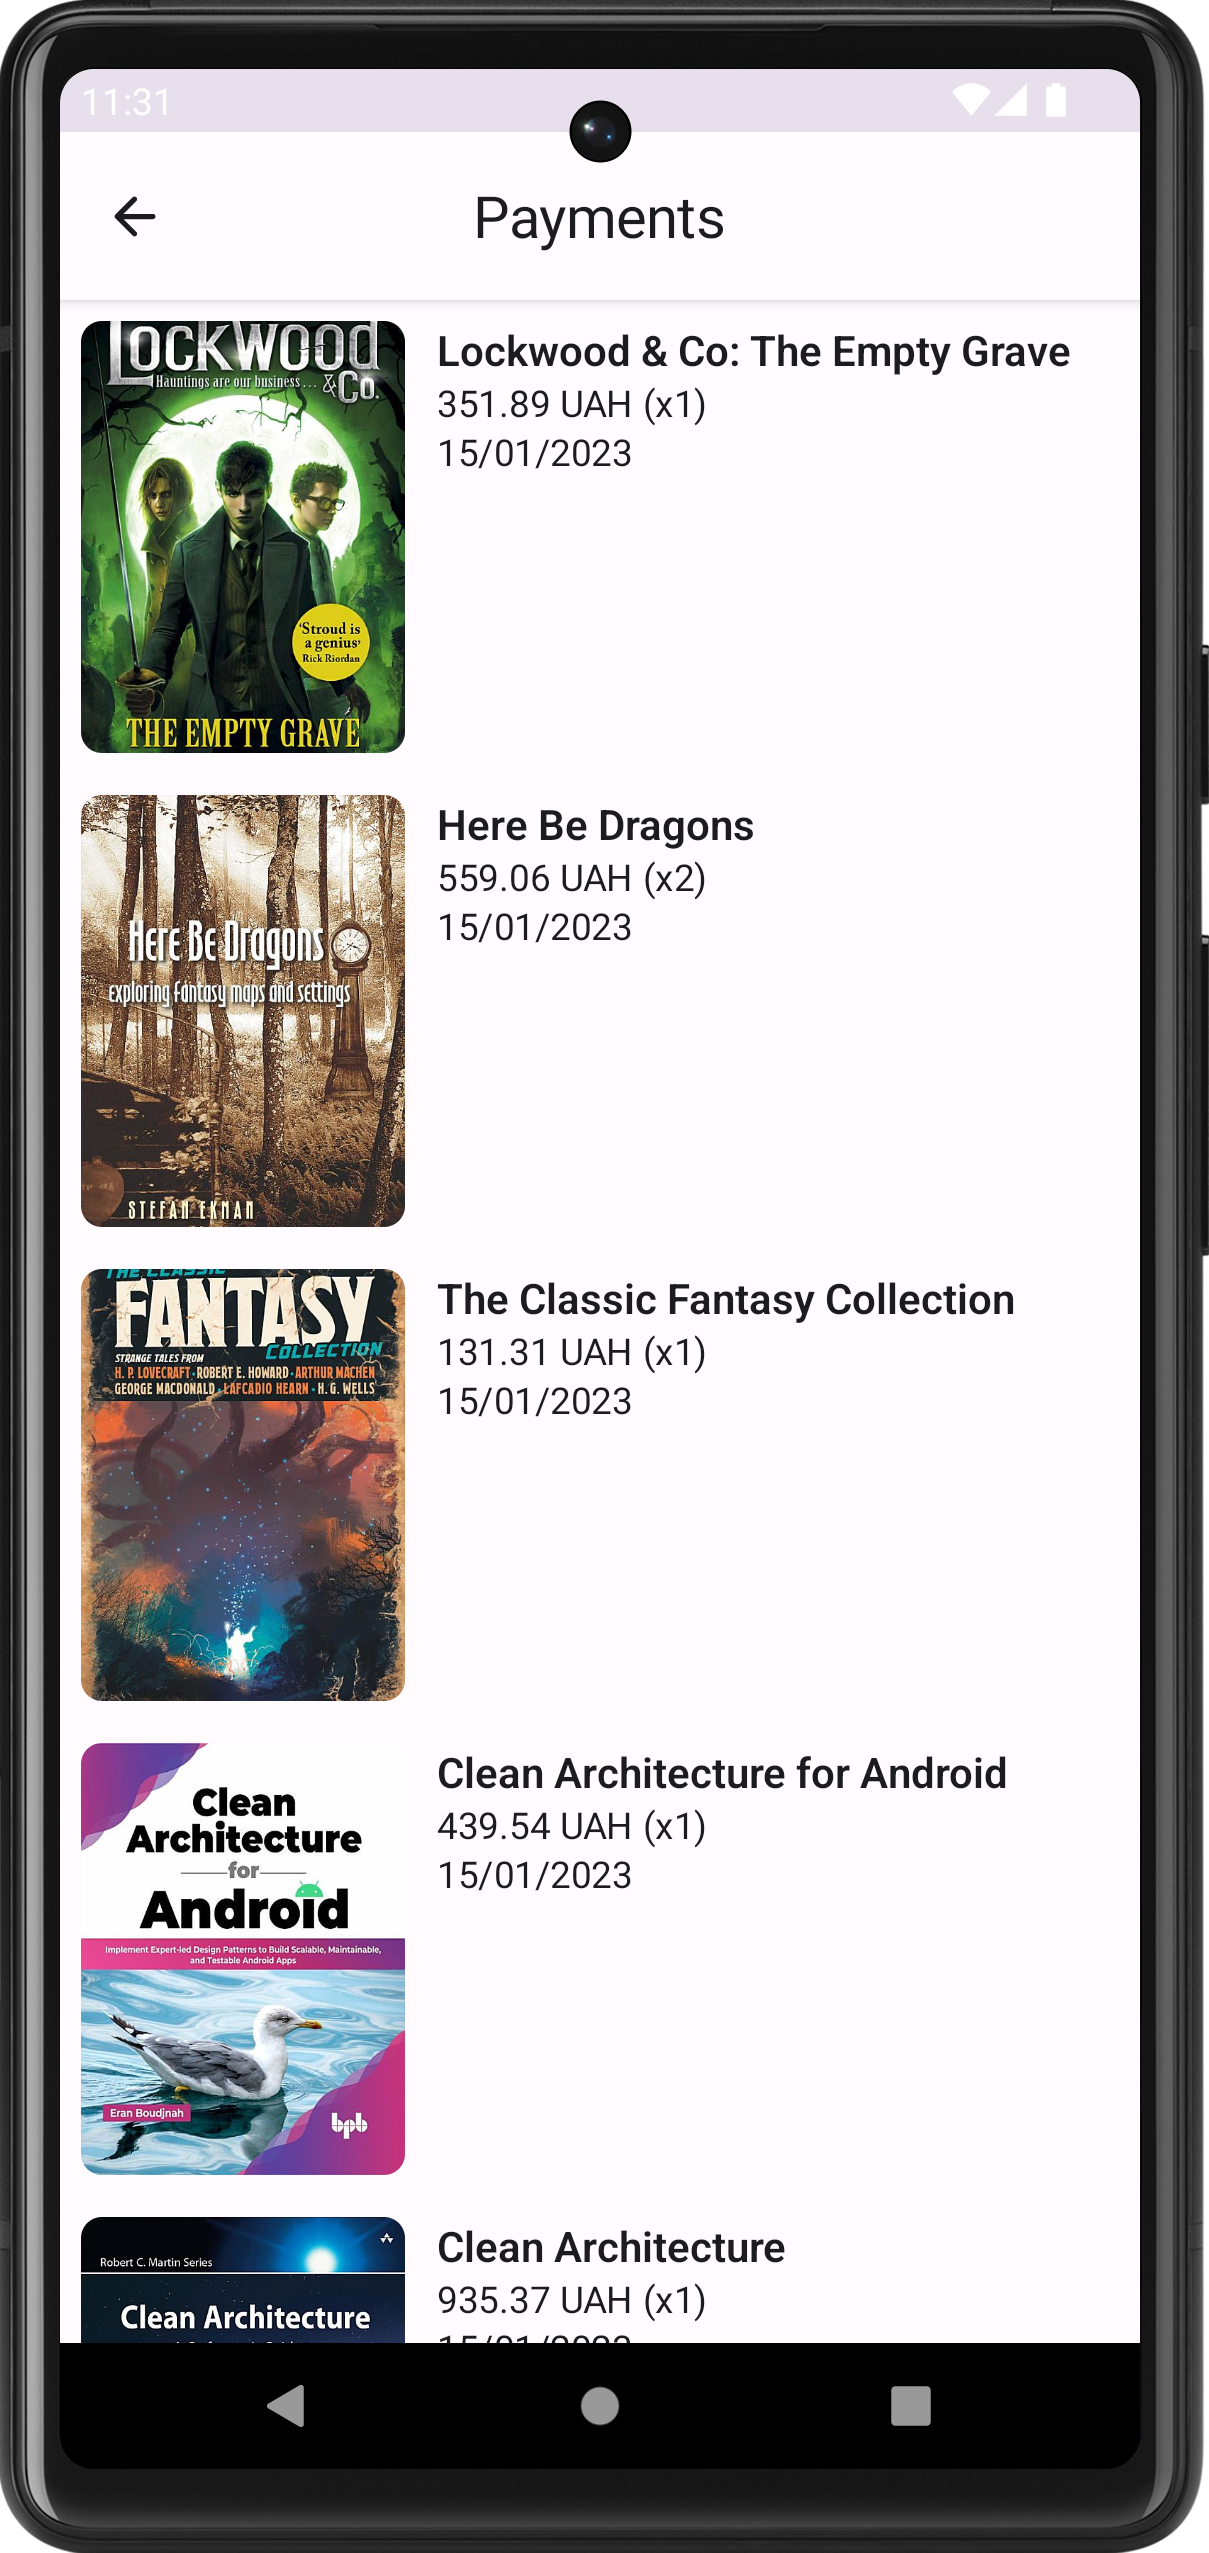
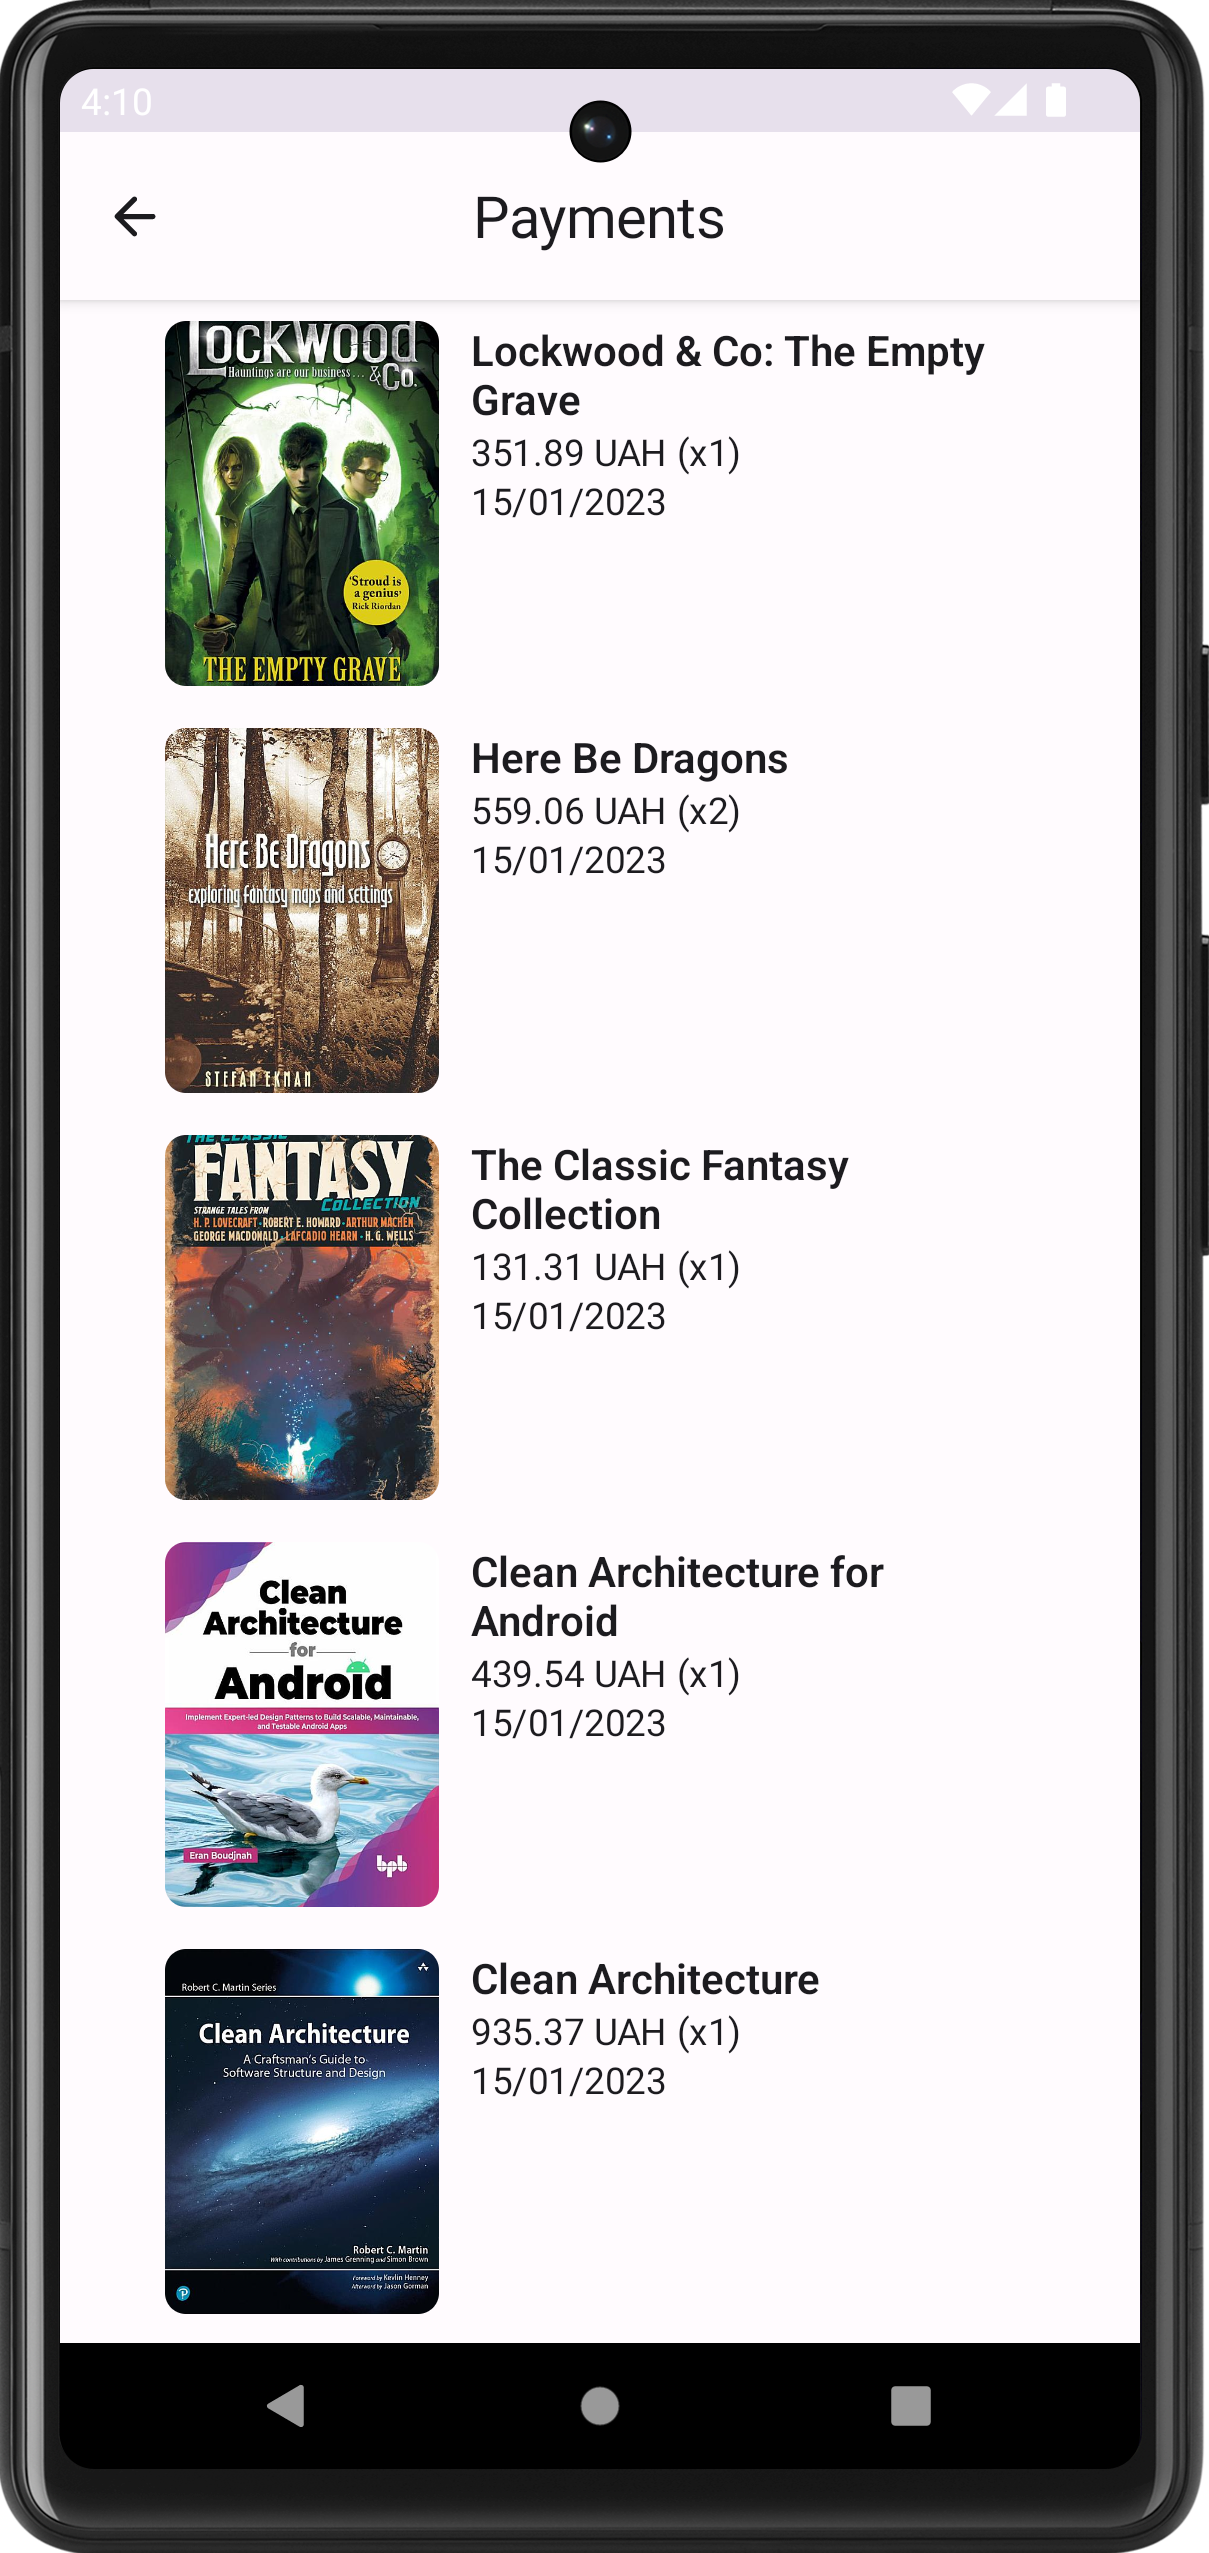
Updated payments and subject books column padding. Updated screenshots

Changed region(s): [[0.0612, 0.1238, 0.8875, 0.9283], [0.3978, 0.7736, 0.6733, 0.8355], [0.5815, 0.4332, 0.7039, 0.4642]]

diff --git a/feature/interests/src/main/java/com/linc/interests/InterestsScreen.kt b/feature/interests/src/main/java/com/linc/interests/InterestsScreen.kt
@@ -1,10 +1,7 @@
 package com.linc.interests
 
 import androidx.compose.animation.animateContentSize
-import androidx.compose.foundation.layout.Column
-import androidx.compose.foundation.layout.fillMaxSize
-import androidx.compose.foundation.layout.fillMaxWidth
-import androidx.compose.foundation.layout.padding
+import androidx.compose.foundation.layout.*
 import androidx.compose.foundation.lazy.LazyColumn
 import androidx.compose.foundation.lazy.items
 import androidx.compose.material3.*
@@ -80,7 +77,7 @@ fun InterestsScreen(
                     }
                 }
                 SubjectsComponent(
-                    modifier = Modifier.padding(vertical = 8.dp, horizontal = 32.dp),
+                    modifier = Modifier.padding(vertical = 8.dp),
                     title = title,
                     subjects = it.items,
                     onSubjectClick = onSubjectClick

diff --git a/feature/subjectbooks/src/main/java/com/linc/subjectbooks/SubjectBooksScreen.kt b/feature/subjectbooks/src/main/java/com/linc/subjectbooks/SubjectBooksScreen.kt
@@ -104,14 +104,14 @@ fun BooksList(
             )
         } else {
             LazyColumn(
-                modifier = Modifier.fillMaxSize()
+                modifier = Modifier.fillMaxSize(),
+                contentPadding = PaddingValues(horizontal = 32.dp)
             ) {
                 items(items = books) {
                     if(it == null) {
                         return@items
                     }
                     DetailedBookItem(
-                        modifier = Modifier.padding(horizontal = 32.dp),
                         item = it,
                         onBookClick = onBookClick
                     )

diff --git a/feature/payments/src/main/java/com/linc/payments/PaymentsScreen.kt b/feature/payments/src/main/java/com/linc/payments/PaymentsScreen.kt
@@ -85,11 +85,12 @@ private fun PaymentsList(
             )
         }
         LazyColumn(
-            modifier = Modifier.fillMaxSize()
+            modifier = Modifier.fillMaxSize(),
+            contentPadding = PaddingValues(horizontal = 32.dp)
         ) {
             items(
                 items = orders,
-                key = { it.orderId }
+                key = { it.orderId },
             ) {
                 OrderItem(item = it)
             }
